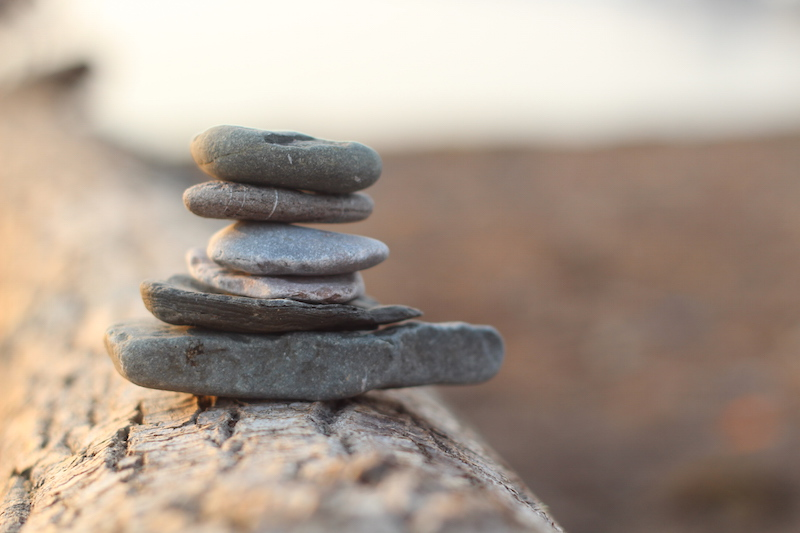
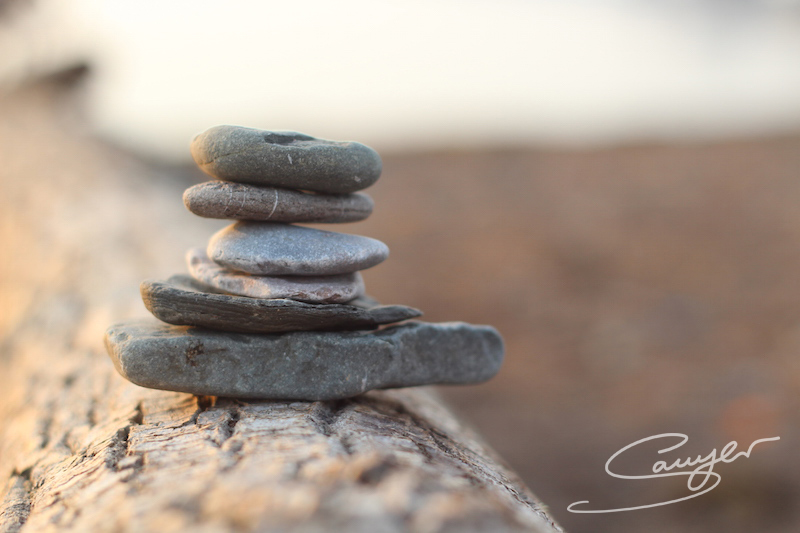
Added watermark to photos and fixed event bubbling on images.

Changed region(s): [[0.6875, 0.8105, 0.9688, 0.9606]]

diff --git a/js/gallery.js b/js/gallery.js
@@ -130,8 +130,7 @@ function openLightbox() {
 	right.onclick = function(e) {
 		e.stopPropagation();
 	}
-	var img = 	document.querySelector('img');
-	img.onclick = function(e) {
+	lbImg.onclick = function(e) {
 		e.stopPropagation();
 	}
 }
